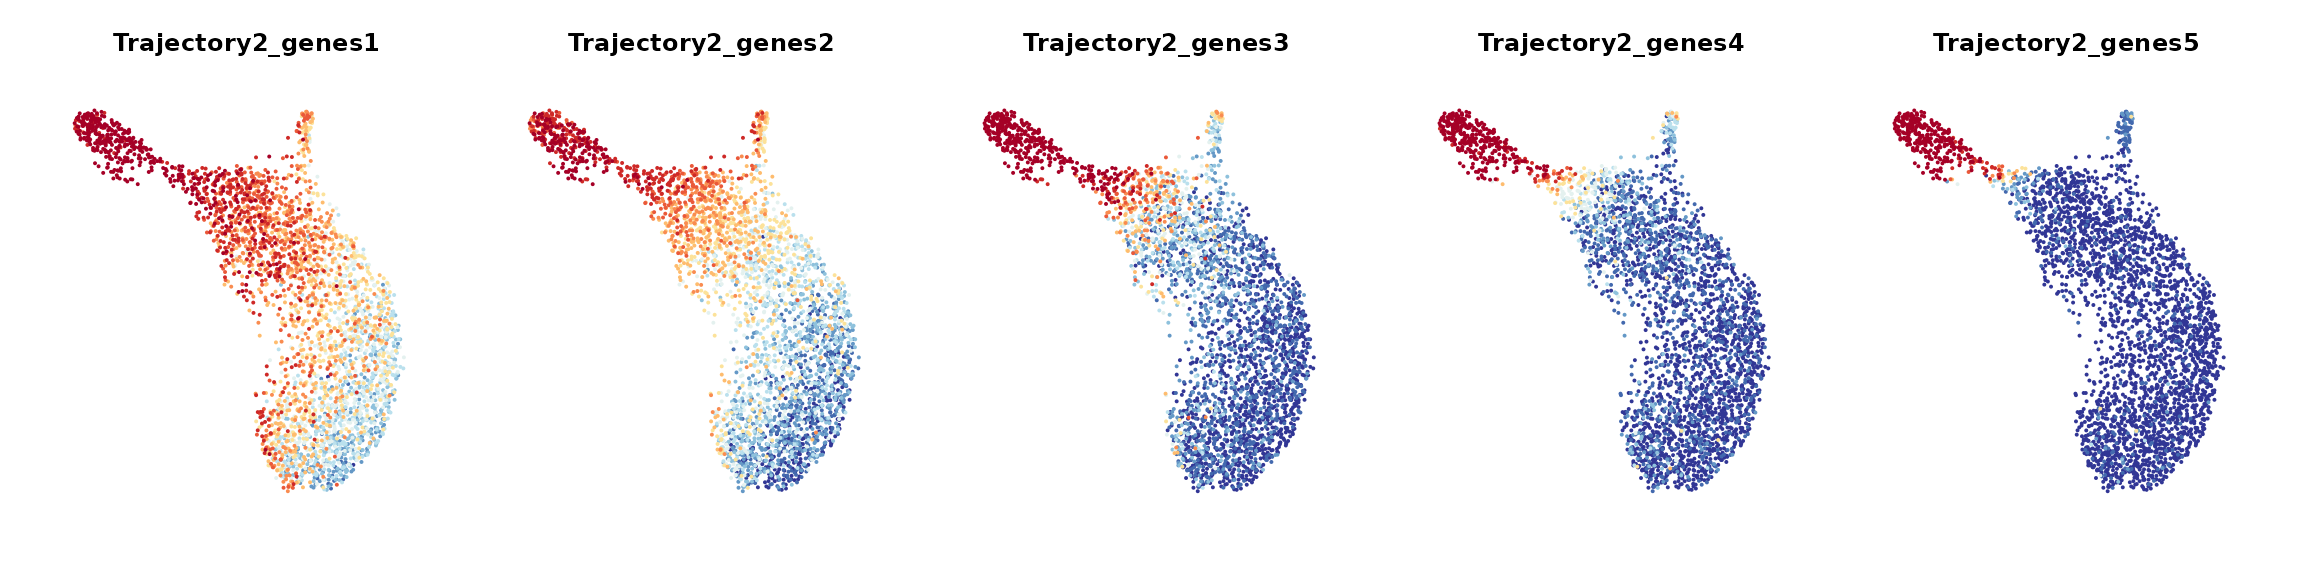
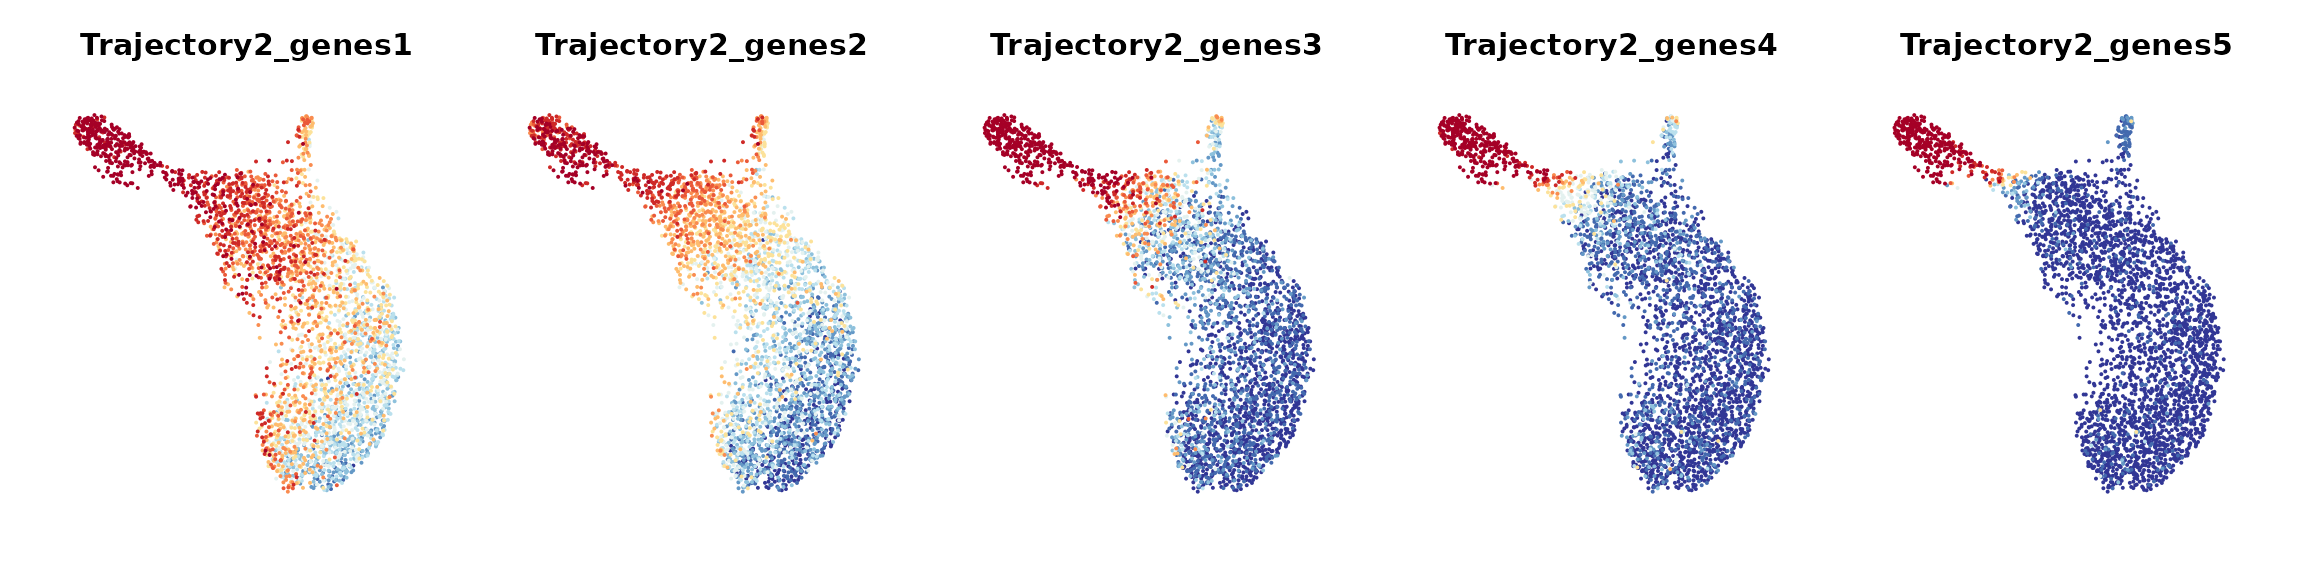
“update”

diff --git a/docs/articles/GeneTrajectory.html b/docs/articles/GeneTrajectory.html
@@ -45,18 +45,6 @@
 <li>
   <a href="../reference/index.html">Reference</a>
 </li>
-<li class="dropdown">
-  <a href="#" class="dropdown-toggle" data-toggle="dropdown" role="button" data-bs-toggle="dropdown" aria-expanded="false">
-    Articles
-     
-    <span class="caret"></span>
-  </a>
-  <ul class="dropdown-menu" role="menu">
-<li>
-      <a href="../articles/scVelo_dataset.html">GeneTrajectory example (scVelo dataset)</a>
-    </li>
-  </ul>
-</li>
 <li>
   <a href="../news/index.html">Changelog</a>
 </li>
@@ -115,9 +103,7 @@ matrix. Identify gene trajectories in a sequential manner.</p></li>
 <li><p>Step 4. Determine the order of genes along each gene
 trajectory.</p></li>
 </ul>
-<div class="float">
-<img src="GT_workflow.png" alt="Workflow"><div class="figcaption">Workflow</div>
-</div>
+<p><img src="GT_workflow.png"></p>
 </div>
 <div class="section level2">
 <h2 id="preparation">Preparation<a class="anchor" aria-label="anchor" href="#preparation"></a>
@@ -140,12 +126,17 @@ trajectory.</p></li>
 R package which includes: library normalization; finding variable
 features; scaling; generating PCA embedding (and UMAP embedding for
 visualization).</p>
-<p>The precomplied Seurat object for this tutorial can be downloaded
+<p>The preprocessed Seurat object for this tutorial can be downloaded
 from <a href="https://figshare.com/articles/dataset/Processed_Seurat_objects_for_GeneTrajectory_inference_Gene_Trajectory_Inference_for_Single-cell_Data_by_Optimal_Transport_Metrics_/25243225" class="external-link">figshare</a>.</p>
 <div class="sourceCode" id="cb2"><pre class="downlit sourceCode r">
 <code class="sourceCode R"><span><span class="co">##### Import the tutorial dataset and take a preliminary visualization</span></span>
-<span><span class="va">data_S</span> <span class="op">&lt;-</span> <span class="fu"><a href="https://rdrr.io/r/base/readRDS.html" class="external-link">readRDS</a></span><span class="op">(</span><span class="st">"/banach1/rq25/GeneTrajectory_data/data_S_MM_v2.rds"</span><span class="op">)</span></span>
-<span><span class="fu"><a href="https://satijalab.org/seurat/reference/DimPlot.html" class="external-link">DimPlot</a></span><span class="op">(</span><span class="va">data_S</span>, group.by <span class="op">=</span> <span class="st">"cluster"</span>, shuffle <span class="op">=</span> <span class="cn">T</span><span class="op">)</span></span></code></pre></div>
+<span><span class="va">data_S</span> <span class="op">&lt;-</span> <span class="fu"><a href="https://rdrr.io/r/base/readRDS.html" class="external-link">readRDS</a></span><span class="op">(</span><span class="st">"../../data/human_myeloid_seurat_obj.rds"</span><span class="op">)</span></span>
+<span><span class="va">cluster_relabel</span> <span class="op">&lt;-</span> <span class="fu"><a href="https://rdrr.io/r/base/c.html" class="external-link">c</a></span><span class="op">(</span><span class="st">"0"</span> <span class="op">=</span> <span class="st">"CD14+ monocytes"</span>,</span>
+<span>                     <span class="st">"1"</span> <span class="op">=</span> <span class="st">"Intermediate monocytes"</span>,</span>
+<span>                     <span class="st">"2"</span> <span class="op">=</span> <span class="st">"CD16+ monocytes"</span>,</span>
+<span>                     <span class="st">"3"</span> <span class="op">=</span> <span class="st">"Myeloid type-2 dendritic cells"</span><span class="op">)</span></span>
+<span><span class="va">data_S</span><span class="op">$</span><span class="va">celltype</span> <span class="op">&lt;-</span> <span class="va">cluster_relabel</span><span class="op">[</span><span class="fu"><a href="https://rdrr.io/r/base/character.html" class="external-link">as.character</a></span><span class="op">(</span><span class="va">data_S</span><span class="op">$</span><span class="va">cluster</span><span class="op">)</span><span class="op">]</span></span>
+<span><span class="fu"><a href="https://satijalab.org/seurat/reference/DimPlot.html" class="external-link">DimPlot</a></span><span class="op">(</span><span class="va">data_S</span>, group.by <span class="op">=</span> <span class="st">"celltype"</span>, shuffle <span class="op">=</span> <span class="cn">T</span><span class="op">)</span></span></code></pre></div>
 <p><img src="GeneTrajectory_files/figure-html/unnamed-chunk-2-1.png" width="528"></p>
 <div id="section" class="section level49">
 <p class="heading"></p>
@@ -273,15 +264,15 @@ plots.</p>
 <div class="sourceCode" id="cb21"><pre class="downlit sourceCode r">
 <code class="sourceCode R"><span><span class="va">data_S</span> <span class="op">&lt;-</span> <span class="fu"><a href="../reference/AddGeneBinScore.html">AddGeneBinScore</a></span><span class="op">(</span><span class="va">data_S</span>, <span class="va">gene_trajectory</span>, N.bin <span class="op">=</span> <span class="fl">5</span>, trajectories <span class="op">=</span> <span class="fl">1</span><span class="op">:</span><span class="fl">3</span>, assay <span class="op">=</span> <span class="st">"alra"</span>, reverse <span class="op">=</span> <span class="fu"><a href="https://rdrr.io/r/base/c.html" class="external-link">c</a></span><span class="op">(</span><span class="cn">F</span>, <span class="cn">F</span>, <span class="cn">T</span><span class="op">)</span><span class="op">)</span></span>
 <span><span class="fu"><a href="https://satijalab.org/seurat/reference/FeaturePlot.html" class="external-link">FeaturePlot</a></span><span class="op">(</span><span class="va">data_S</span>, pt.size <span class="op">=</span> <span class="fl">0.05</span>, features <span class="op">=</span> <span class="fu"><a href="https://rdrr.io/r/base/paste.html" class="external-link">paste0</a></span><span class="op">(</span><span class="st">"Trajectory"</span>,<span class="fl">1</span>,<span class="st">"_genes"</span>, <span class="fl">1</span><span class="op">:</span><span class="fl">5</span><span class="op">)</span>, ncol <span class="op">=</span> <span class="fl">5</span>, order <span class="op">=</span> <span class="cn">T</span><span class="op">)</span> <span class="op">&amp;</span></span>
-<span>  <span class="fu"><a href="https://ggplot2.tidyverse.org/reference/scale_gradient.html" class="external-link">scale_color_gradientn</a></span><span class="op">(</span>colors <span class="op">=</span> <span class="fu"><a href="https://rdrr.io/r/base/rev.html" class="external-link">rev</a></span><span class="op">(</span><span class="fu"><a href="https://scales.r-lib.org/reference/brewer_pal.html" class="external-link">brewer_pal</a></span><span class="op">(</span>palette <span class="op">=</span> <span class="st">"RdYlBu"</span><span class="op">)</span><span class="op">(</span><span class="fl">10</span><span class="op">)</span><span class="op">)</span><span class="op">)</span> <span class="op">&amp;</span> <span class="fu"><a href="https://satijalab.org/seurat/reference/SeuratTheme.html" class="external-link">NoLegend</a></span><span class="op">(</span><span class="op">)</span> <span class="op">&amp;</span> <span class="fu"><a href="https://satijalab.org/seurat/reference/SeuratTheme.html" class="external-link">NoAxes</a></span><span class="op">(</span><span class="op">)</span> <span class="op">&amp;</span> <span class="fu"><a href="https://ggplot2.tidyverse.org/reference/theme.html" class="external-link">theme</a></span><span class="op">(</span>title <span class="op">=</span> <span class="fu"><a href="https://ggplot2.tidyverse.org/reference/element.html" class="external-link">element_text</a></span><span class="op">(</span>size <span class="op">=</span> <span class="fl">8</span><span class="op">)</span><span class="op">)</span></span></code></pre></div>
+<span>  <span class="fu"><a href="https://ggplot2.tidyverse.org/reference/scale_gradient.html" class="external-link">scale_color_gradientn</a></span><span class="op">(</span>colors <span class="op">=</span> <span class="fu"><a href="https://rdrr.io/r/base/rev.html" class="external-link">rev</a></span><span class="op">(</span><span class="fu"><a href="https://scales.r-lib.org/reference/brewer_pal.html" class="external-link">brewer_pal</a></span><span class="op">(</span>palette <span class="op">=</span> <span class="st">"RdYlBu"</span><span class="op">)</span><span class="op">(</span><span class="fl">10</span><span class="op">)</span><span class="op">)</span><span class="op">)</span> <span class="op">&amp;</span> <span class="fu"><a href="https://satijalab.org/seurat/reference/SeuratTheme.html" class="external-link">NoLegend</a></span><span class="op">(</span><span class="op">)</span> <span class="op">&amp;</span> <span class="fu"><a href="https://satijalab.org/seurat/reference/SeuratTheme.html" class="external-link">NoAxes</a></span><span class="op">(</span><span class="op">)</span> <span class="op">&amp;</span> <span class="fu"><a href="https://ggplot2.tidyverse.org/reference/theme.html" class="external-link">theme</a></span><span class="op">(</span>title <span class="op">=</span> <span class="fu"><a href="https://ggplot2.tidyverse.org/reference/element.html" class="external-link">element_text</a></span><span class="op">(</span>size <span class="op">=</span> <span class="fl">10</span><span class="op">)</span><span class="op">)</span></span></code></pre></div>
 <p><img src="GeneTrajectory_files/figure-html/unnamed-chunk-8-1.png" width="1152"></p>
 <div class="sourceCode" id="cb22"><pre class="downlit sourceCode r">
 <code class="sourceCode R"><span><span class="fu"><a href="https://satijalab.org/seurat/reference/FeaturePlot.html" class="external-link">FeaturePlot</a></span><span class="op">(</span><span class="va">data_S</span>, pt.size <span class="op">=</span> <span class="fl">0.05</span>, features <span class="op">=</span> <span class="fu"><a href="https://rdrr.io/r/base/paste.html" class="external-link">paste0</a></span><span class="op">(</span><span class="st">"Trajectory"</span>,<span class="fl">2</span>,<span class="st">"_genes"</span>, <span class="fl">1</span><span class="op">:</span><span class="fl">5</span><span class="op">)</span>, ncol <span class="op">=</span> <span class="fl">5</span>, order <span class="op">=</span> <span class="cn">T</span><span class="op">)</span> <span class="op">&amp;</span></span>
-<span>  <span class="fu"><a href="https://ggplot2.tidyverse.org/reference/scale_gradient.html" class="external-link">scale_color_gradientn</a></span><span class="op">(</span>colors <span class="op">=</span> <span class="fu"><a href="https://rdrr.io/r/base/rev.html" class="external-link">rev</a></span><span class="op">(</span><span class="fu"><a href="https://scales.r-lib.org/reference/brewer_pal.html" class="external-link">brewer_pal</a></span><span class="op">(</span>palette <span class="op">=</span> <span class="st">"RdYlBu"</span><span class="op">)</span><span class="op">(</span><span class="fl">10</span><span class="op">)</span><span class="op">)</span><span class="op">)</span> <span class="op">&amp;</span> <span class="fu"><a href="https://satijalab.org/seurat/reference/SeuratTheme.html" class="external-link">NoLegend</a></span><span class="op">(</span><span class="op">)</span> <span class="op">&amp;</span> <span class="fu"><a href="https://satijalab.org/seurat/reference/SeuratTheme.html" class="external-link">NoAxes</a></span><span class="op">(</span><span class="op">)</span> <span class="op">&amp;</span> <span class="fu"><a href="https://ggplot2.tidyverse.org/reference/theme.html" class="external-link">theme</a></span><span class="op">(</span>title <span class="op">=</span> <span class="fu"><a href="https://ggplot2.tidyverse.org/reference/element.html" class="external-link">element_text</a></span><span class="op">(</span>size <span class="op">=</span> <span class="fl">8</span><span class="op">)</span><span class="op">)</span></span></code></pre></div>
+<span>  <span class="fu"><a href="https://ggplot2.tidyverse.org/reference/scale_gradient.html" class="external-link">scale_color_gradientn</a></span><span class="op">(</span>colors <span class="op">=</span> <span class="fu"><a href="https://rdrr.io/r/base/rev.html" class="external-link">rev</a></span><span class="op">(</span><span class="fu"><a href="https://scales.r-lib.org/reference/brewer_pal.html" class="external-link">brewer_pal</a></span><span class="op">(</span>palette <span class="op">=</span> <span class="st">"RdYlBu"</span><span class="op">)</span><span class="op">(</span><span class="fl">10</span><span class="op">)</span><span class="op">)</span><span class="op">)</span> <span class="op">&amp;</span> <span class="fu"><a href="https://satijalab.org/seurat/reference/SeuratTheme.html" class="external-link">NoLegend</a></span><span class="op">(</span><span class="op">)</span> <span class="op">&amp;</span> <span class="fu"><a href="https://satijalab.org/seurat/reference/SeuratTheme.html" class="external-link">NoAxes</a></span><span class="op">(</span><span class="op">)</span> <span class="op">&amp;</span> <span class="fu"><a href="https://ggplot2.tidyverse.org/reference/theme.html" class="external-link">theme</a></span><span class="op">(</span>title <span class="op">=</span> <span class="fu"><a href="https://ggplot2.tidyverse.org/reference/element.html" class="external-link">element_text</a></span><span class="op">(</span>size <span class="op">=</span> <span class="fl">10</span><span class="op">)</span><span class="op">)</span></span></code></pre></div>
 <p><img src="GeneTrajectory_files/figure-html/unnamed-chunk-8-2.png" width="1152"></p>
 <div class="sourceCode" id="cb23"><pre class="downlit sourceCode r">
 <code class="sourceCode R"><span><span class="fu"><a href="https://satijalab.org/seurat/reference/FeaturePlot.html" class="external-link">FeaturePlot</a></span><span class="op">(</span><span class="va">data_S</span>, pt.size <span class="op">=</span> <span class="fl">0.05</span>, features <span class="op">=</span> <span class="fu"><a href="https://rdrr.io/r/base/paste.html" class="external-link">paste0</a></span><span class="op">(</span><span class="st">"Trajectory"</span>,<span class="fl">3</span>,<span class="st">"_genes"</span>, <span class="fl">1</span><span class="op">:</span><span class="fl">5</span><span class="op">)</span>, ncol <span class="op">=</span> <span class="fl">5</span>, order <span class="op">=</span> <span class="cn">T</span><span class="op">)</span> <span class="op">&amp;</span></span>
-<span>  <span class="fu"><a href="https://ggplot2.tidyverse.org/reference/scale_gradient.html" class="external-link">scale_color_gradientn</a></span><span class="op">(</span>colors <span class="op">=</span> <span class="fu"><a href="https://rdrr.io/r/base/rev.html" class="external-link">rev</a></span><span class="op">(</span><span class="fu"><a href="https://scales.r-lib.org/reference/brewer_pal.html" class="external-link">brewer_pal</a></span><span class="op">(</span>palette <span class="op">=</span> <span class="st">"RdYlBu"</span><span class="op">)</span><span class="op">(</span><span class="fl">10</span><span class="op">)</span><span class="op">)</span><span class="op">)</span> <span class="op">&amp;</span> <span class="fu"><a href="https://satijalab.org/seurat/reference/SeuratTheme.html" class="external-link">NoLegend</a></span><span class="op">(</span><span class="op">)</span> <span class="op">&amp;</span> <span class="fu"><a href="https://satijalab.org/seurat/reference/SeuratTheme.html" class="external-link">NoAxes</a></span><span class="op">(</span><span class="op">)</span> <span class="op">&amp;</span> <span class="fu"><a href="https://ggplot2.tidyverse.org/reference/theme.html" class="external-link">theme</a></span><span class="op">(</span>title <span class="op">=</span> <span class="fu"><a href="https://ggplot2.tidyverse.org/reference/element.html" class="external-link">element_text</a></span><span class="op">(</span>size <span class="op">=</span> <span class="fl">8</span><span class="op">)</span><span class="op">)</span></span></code></pre></div>
+<span>  <span class="fu"><a href="https://ggplot2.tidyverse.org/reference/scale_gradient.html" class="external-link">scale_color_gradientn</a></span><span class="op">(</span>colors <span class="op">=</span> <span class="fu"><a href="https://rdrr.io/r/base/rev.html" class="external-link">rev</a></span><span class="op">(</span><span class="fu"><a href="https://scales.r-lib.org/reference/brewer_pal.html" class="external-link">brewer_pal</a></span><span class="op">(</span>palette <span class="op">=</span> <span class="st">"RdYlBu"</span><span class="op">)</span><span class="op">(</span><span class="fl">10</span><span class="op">)</span><span class="op">)</span><span class="op">)</span> <span class="op">&amp;</span> <span class="fu"><a href="https://satijalab.org/seurat/reference/SeuratTheme.html" class="external-link">NoLegend</a></span><span class="op">(</span><span class="op">)</span> <span class="op">&amp;</span> <span class="fu"><a href="https://satijalab.org/seurat/reference/SeuratTheme.html" class="external-link">NoAxes</a></span><span class="op">(</span><span class="op">)</span> <span class="op">&amp;</span> <span class="fu"><a href="https://ggplot2.tidyverse.org/reference/theme.html" class="external-link">theme</a></span><span class="op">(</span>title <span class="op">=</span> <span class="fu"><a href="https://ggplot2.tidyverse.org/reference/element.html" class="external-link">element_text</a></span><span class="op">(</span>size <span class="op">=</span> <span class="fl">10</span><span class="op">)</span><span class="op">)</span></span></code></pre></div>
 <p><img src="GeneTrajectory_files/figure-html/unnamed-chunk-8-3.png" width="1152"></p>
 </div>
   </div>

diff --git a/docs/articles/index.html b/docs/articles/index.html
@@ -28,16 +28,6 @@
 <li>
   <a href="../reference/index.html">Reference</a>
 </li>
-<li class="dropdown">
-  <a href="#" class="dropdown-toggle" data-toggle="dropdown" role="button" data-bs-toggle="dropdown" aria-expanded="false">
-    Articles
-     
-    <span class="caret"></span>
-  </a>
-  <ul class="dropdown-menu" role="menu"><li>
-      <a href="../articles/scVelo_dataset.html">GeneTrajectory example (scVelo dataset)</a>
-    </li>
-  </ul></li>
 <li>
   <a href="../news/index.html">Changelog</a>
 </li>
@@ -64,8 +54,6 @@
       <p class="section-desc"></p>
 
       <dl><dt><a href="GeneTrajectory.html">GeneTrajectory tutorial (myeloid dataset)</a></dt>
-        <dd>
-        </dd><dt><a href="scVelo_dataset.html">GeneTrajectory example (scVelo dataset)</a></dt>
         <dd>
       </dd></dl></div>
   </div>

diff --git a/docs/news/index.html b/docs/news/index.html
@@ -28,16 +28,6 @@
 <li>
   <a href="../reference/index.html">Reference</a>
 </li>
-<li class="dropdown">
-  <a href="#" class="dropdown-toggle" data-toggle="dropdown" role="button" data-bs-toggle="dropdown" aria-expanded="false">
-    Articles
-     
-    <span class="caret"></span>
-  </a>
-  <ul class="dropdown-menu" role="menu"><li>
-      <a href="../articles/scVelo_dataset.html">GeneTrajectory example (scVelo dataset)</a>
-    </li>
-  </ul></li>
 <li>
   <a href="../news/index.html">Changelog</a>
 </li>

diff --git a/docs/reference/AddGeneBinScore.html b/docs/reference/AddGeneBinScore.html
@@ -28,16 +28,6 @@
 <li>
   <a href="../reference/index.html">Reference</a>
 </li>
-<li class="dropdown">
-  <a href="#" class="dropdown-toggle" data-toggle="dropdown" role="button" data-bs-toggle="dropdown" aria-expanded="false">
-    Articles
-     
-    <span class="caret"></span>
-  </a>
-  <ul class="dropdown-menu" role="menu"><li>
-      <a href="../articles/scVelo_dataset.html">GeneTrajectory example (scVelo dataset)</a>
-    </li>
-  </ul></li>
 <li>
   <a href="../news/index.html">Changelog</a>
 </li>

diff --git a/docs/reference/CoarseGrain.html b/docs/reference/CoarseGrain.html
@@ -28,16 +28,6 @@
 <li>
   <a href="../reference/index.html">Reference</a>
 </li>
-<li class="dropdown">
-  <a href="#" class="dropdown-toggle" data-toggle="dropdown" role="button" data-bs-toggle="dropdown" aria-expanded="false">
-    Articles
-     
-    <span class="caret"></span>
-  </a>
-  <ul class="dropdown-menu" role="menu"><li>
-      <a href="../articles/scVelo_dataset.html">GeneTrajectory example (scVelo dataset)</a>
-    </li>
-  </ul></li>
 <li>
   <a href="../news/index.html">Changelog</a>
 </li>

diff --git a/docs/reference/ExtractGeneTrajectory.html b/docs/reference/ExtractGeneTrajectory.html
@@ -28,16 +28,6 @@
 <li>
   <a href="../reference/index.html">Reference</a>
 </li>
-<li class="dropdown">
-  <a href="#" class="dropdown-toggle" data-toggle="dropdown" role="button" data-bs-toggle="dropdown" aria-expanded="false">
-    Articles
-     
-    <span class="caret"></span>
-  </a>
-  <ul class="dropdown-menu" role="menu"><li>
-      <a href="../articles/scVelo_dataset.html">GeneTrajectory example (scVelo dataset)</a>
-    </li>
-  </ul></li>
 <li>
   <a href="../news/index.html">Changelog</a>
 </li>

diff --git a/docs/reference/GetGeneEmbedding.html b/docs/reference/GetGeneEmbedding.html
@@ -28,16 +28,6 @@
 <li>
   <a href="../reference/index.html">Reference</a>
 </li>
-<li class="dropdown">
-  <a href="#" class="dropdown-toggle" data-toggle="dropdown" role="button" data-bs-toggle="dropdown" aria-expanded="false">
-    Articles
-     
-    <span class="caret"></span>
-  </a>
-  <ul class="dropdown-menu" role="menu"><li>
-      <a href="../articles/scVelo_dataset.html">GeneTrajectory example (scVelo dataset)</a>
-    </li>
-  </ul></li>
 <li>
   <a href="../news/index.html">Changelog</a>
 </li>

diff --git a/docs/reference/GetGenePseudoorder.html b/docs/reference/GetGenePseudoorder.html
@@ -28,16 +28,6 @@
 <li>
   <a href="../reference/index.html">Reference</a>
 </li>
-<li class="dropdown">
-  <a href="#" class="dropdown-toggle" data-toggle="dropdown" role="button" data-bs-toggle="dropdown" aria-expanded="false">
-    Articles
-     
-    <span class="caret"></span>
-  </a>
-  <ul class="dropdown-menu" role="menu"><li>
-      <a href="../articles/scVelo_dataset.html">GeneTrajectory example (scVelo dataset)</a>
-    </li>
-  </ul></li>
 <li>
   <a href="../news/index.html">Changelog</a>
 </li>

diff --git a/docs/reference/GetGraphDistance.html b/docs/reference/GetGraphDistance.html
@@ -28,16 +28,6 @@
 <li>
   <a href="../reference/index.html">Reference</a>
 </li>
-<li class="dropdown">
-  <a href="#" class="dropdown-toggle" data-toggle="dropdown" role="button" data-bs-toggle="dropdown" aria-expanded="false">
-    Articles
-     
-    <span class="caret"></span>
-  </a>
-  <ul class="dropdown-menu" role="menu"><li>
-      <a href="../articles/scVelo_dataset.html">GeneTrajectory example (scVelo dataset)</a>
-    </li>
-  </ul></li>
 <li>
   <a href="../news/index.html">Changelog</a>
 </li>

diff --git a/docs/reference/LoadGeneDistMat.html b/docs/reference/LoadGeneDistMat.html
@@ -28,16 +28,6 @@
 <li>
   <a href="../reference/index.html">Reference</a>
 </li>
-<li class="dropdown">
-  <a href="#" class="dropdown-toggle" data-toggle="dropdown" role="button" data-bs-toggle="dropdown" aria-expanded="false">
-    Articles
-     
-    <span class="caret"></span>
-  </a>
-  <ul class="dropdown-menu" role="menu"><li>
-      <a href="../articles/scVelo_dataset.html">GeneTrajectory example (scVelo dataset)</a>
-    </li>
-  </ul></li>
 <li>
   <a href="../news/index.html">Changelog</a>
 </li>

diff --git a/docs/reference/RunDM.html b/docs/reference/RunDM.html
@@ -28,16 +28,6 @@
 <li>
   <a href="../reference/index.html">Reference</a>
 </li>
-<li class="dropdown">
-  <a href="#" class="dropdown-toggle" data-toggle="dropdown" role="button" data-bs-toggle="dropdown" aria-expanded="false">
-    Articles
-     
-    <span class="caret"></span>
-  </a>
-  <ul class="dropdown-menu" role="menu"><li>
-      <a href="../articles/scVelo_dataset.html">GeneTrajectory example (scVelo dataset)</a>
-    </li>
-  </ul></li>
 <li>
   <a href="../news/index.html">Changelog</a>
 </li>

diff --git a/docs/reference/checkIgtPythonEnvironment.html b/docs/reference/checkIgtPythonEnvironment.html
@@ -28,16 +28,6 @@
 <li>
   <a href="../reference/index.html">Reference</a>
 </li>
-<li class="dropdown">
-  <a href="#" class="dropdown-toggle" data-toggle="dropdown" role="button" data-bs-toggle="dropdown" aria-expanded="false">
-    Articles
-     
-    <span class="caret"></span>
-  </a>
-  <ul class="dropdown-menu" role="menu"><li>
-      <a href="../articles/scVelo_dataset.html">GeneTrajectory example (scVelo dataset)</a>
-    </li>
-  </ul></li>
 <li>
   <a href="../news/index.html">Changelog</a>
 </li>
